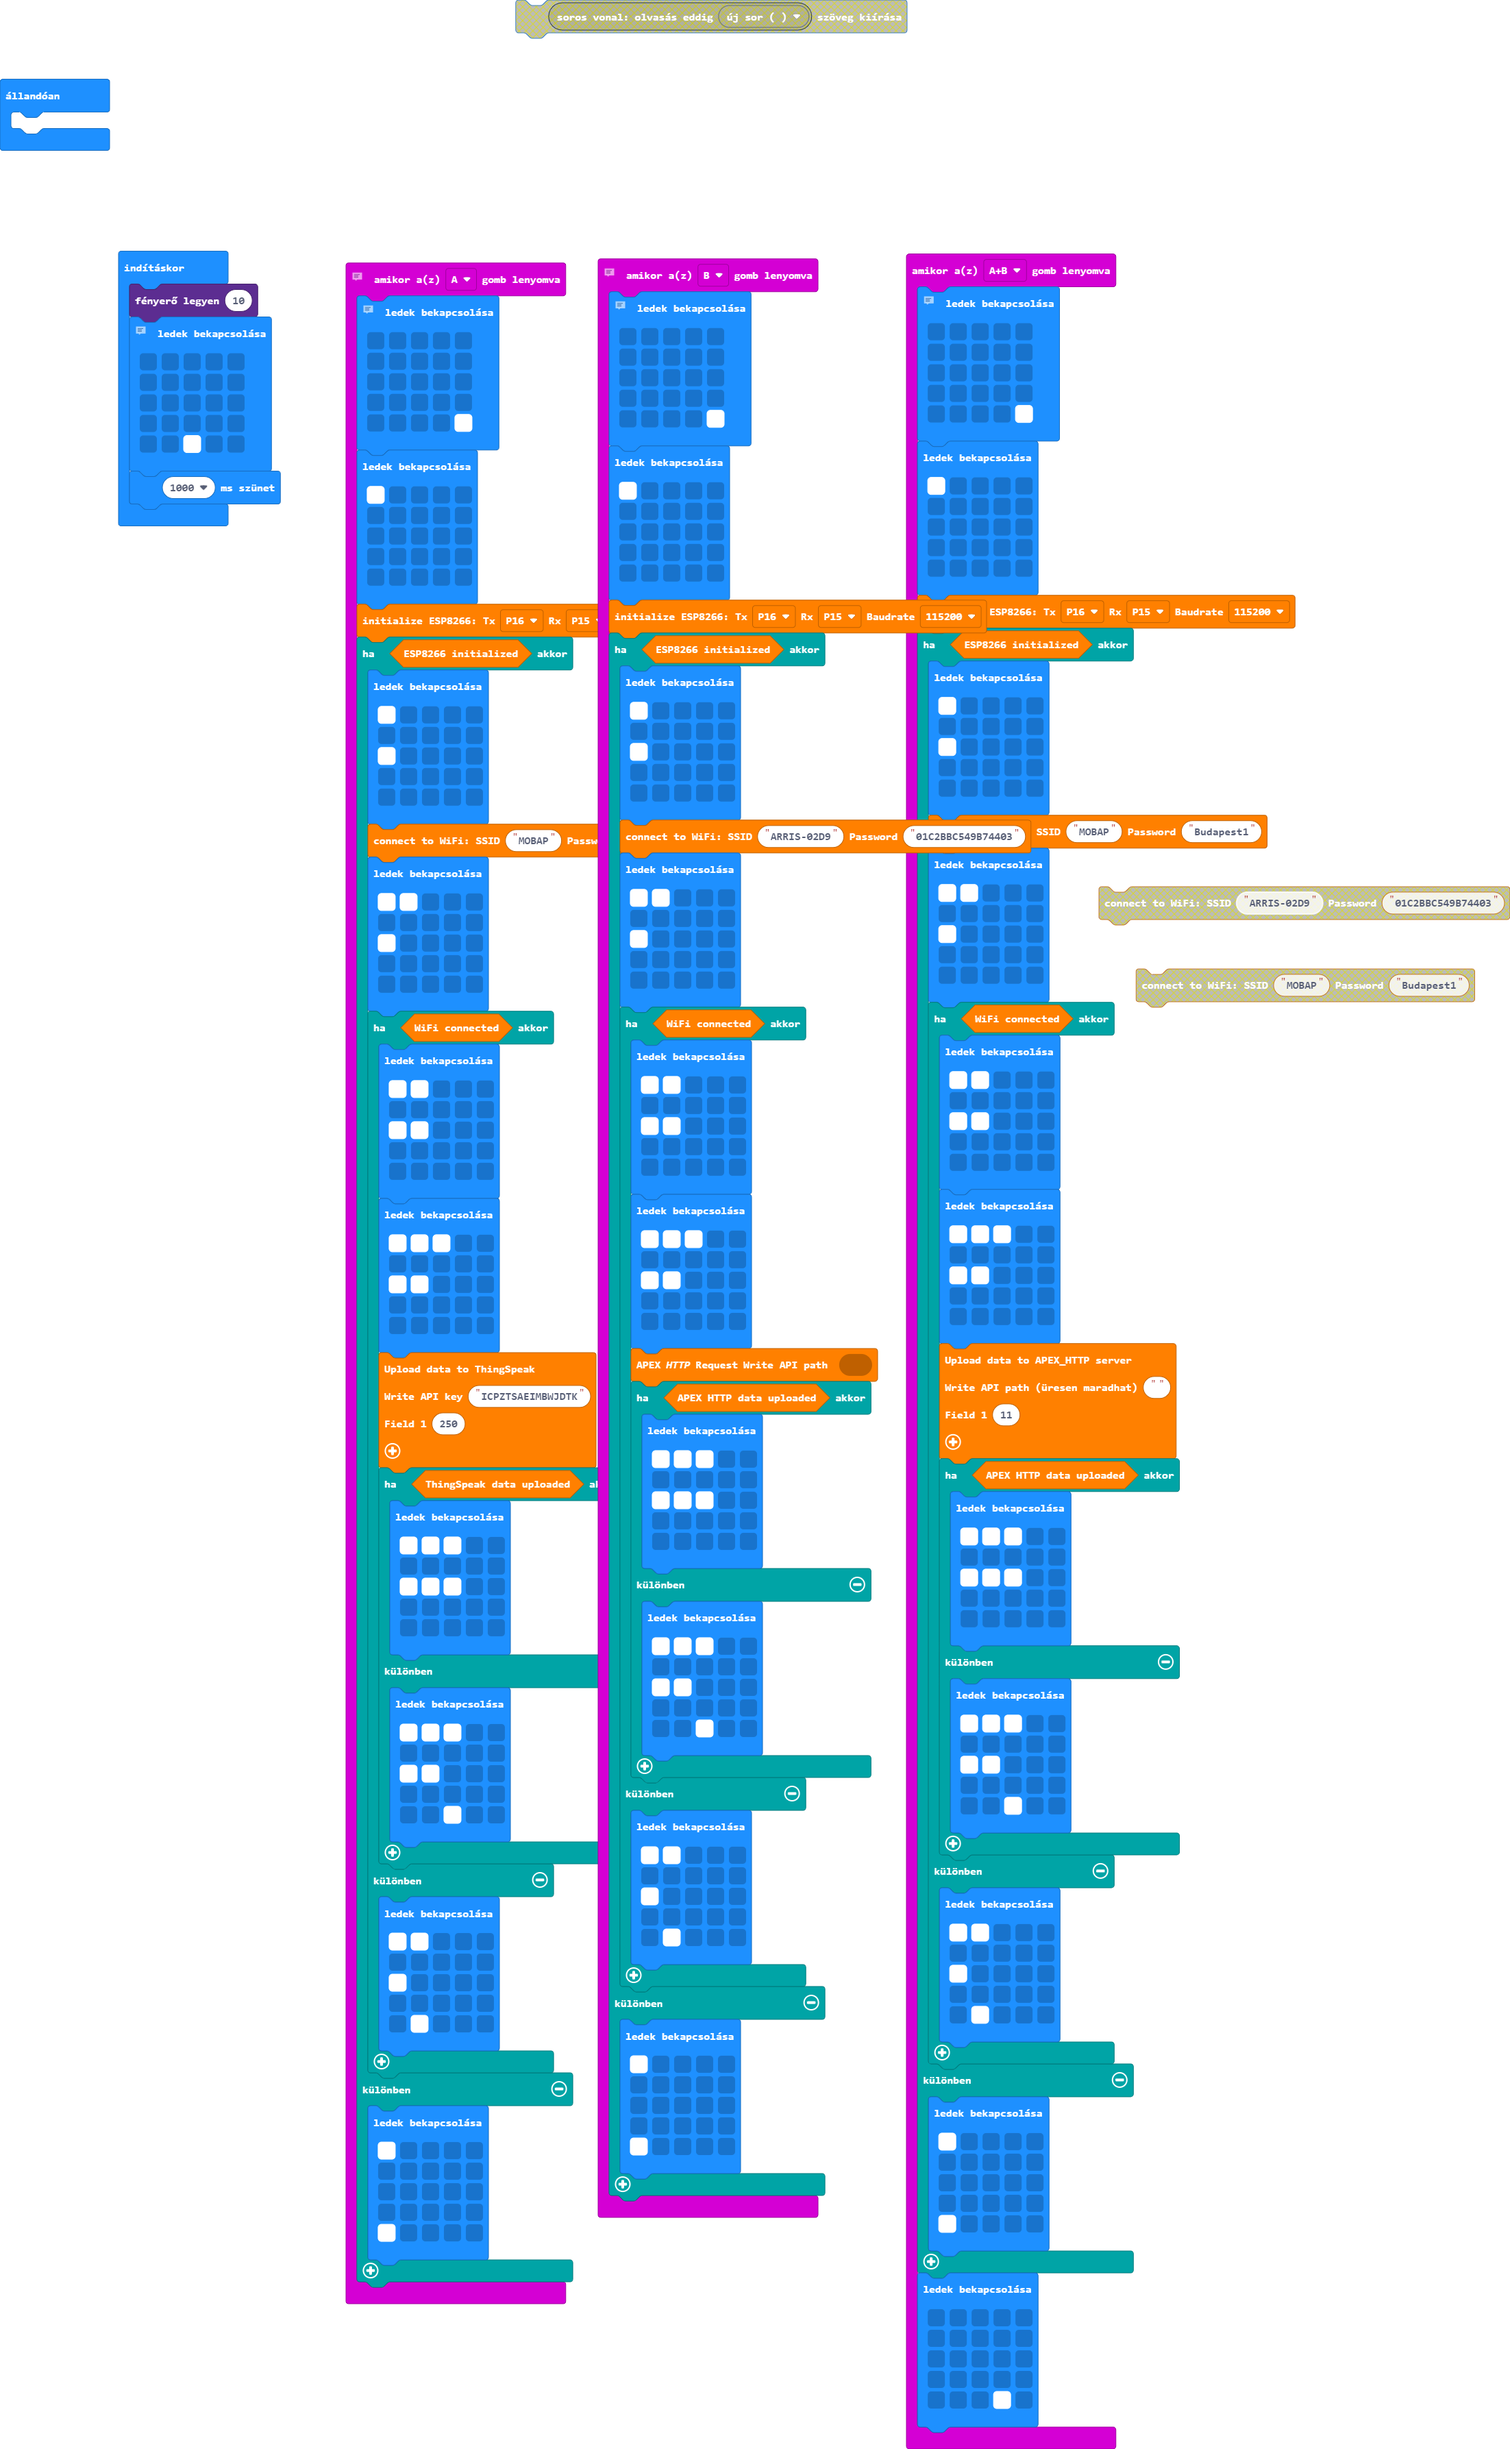
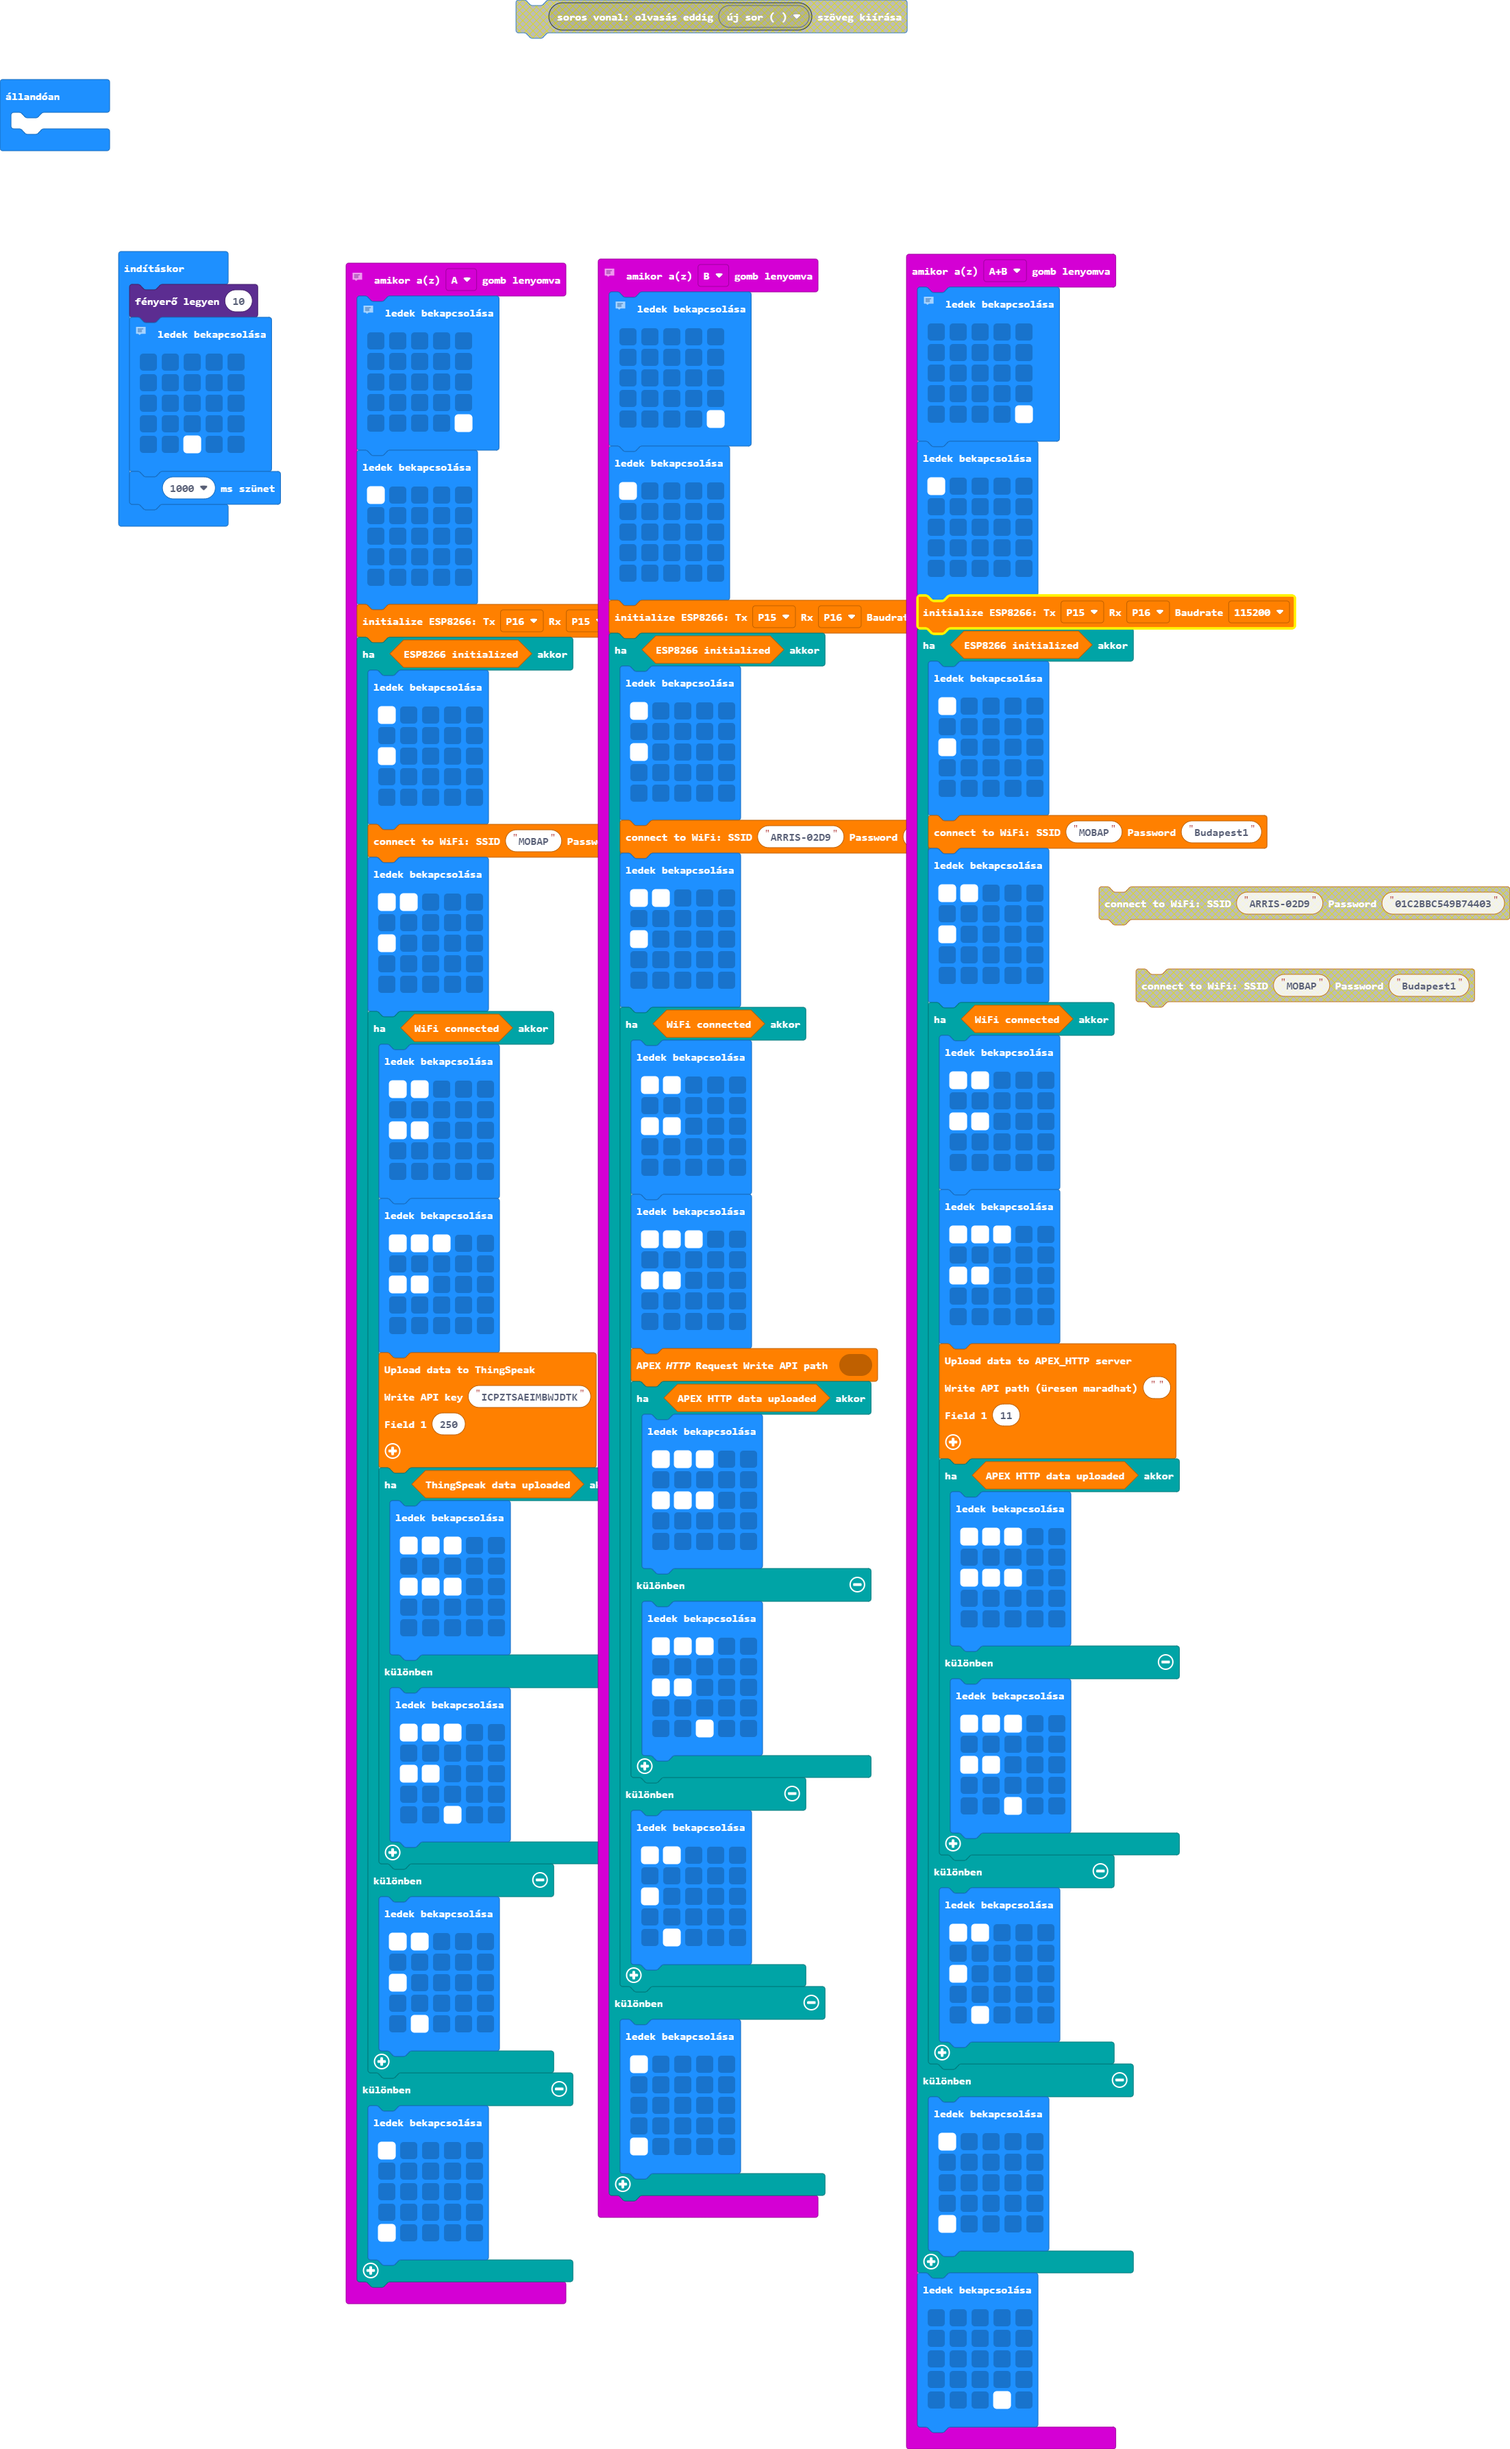
pxt.json, main.blocks, main.ts frissítése

diff --git a/main.ts b/main.ts
@@ -104,7 +104,7 @@ input.onButtonPressed(Button.AB, function () {
         . . . . .
         . . . . .
         `)
-    esp8266_EJ.init(SerialPin.P16, SerialPin.P15, BaudRate.BaudRate115200)
+    esp8266_EJ.init(SerialPin.P15, SerialPin.P16, BaudRate.BaudRate115200)
     if (esp8266_EJ.isESP8266Initialized()) {
         basic.showLeds(`
             # . . . .
@@ -200,7 +200,7 @@ input.onButtonPressed(Button.B, function () {
         . . . . .
         . . . . .
         `)
-    esp8266_EJ.init(SerialPin.P16, SerialPin.P15, BaudRate.BaudRate115200)
+    esp8266_EJ.init(SerialPin.P15, SerialPin.P16, BaudRate.BaudRate115200)
     if (esp8266_EJ.isESP8266Initialized()) {
         basic.showLeds(`
             # . . . .
